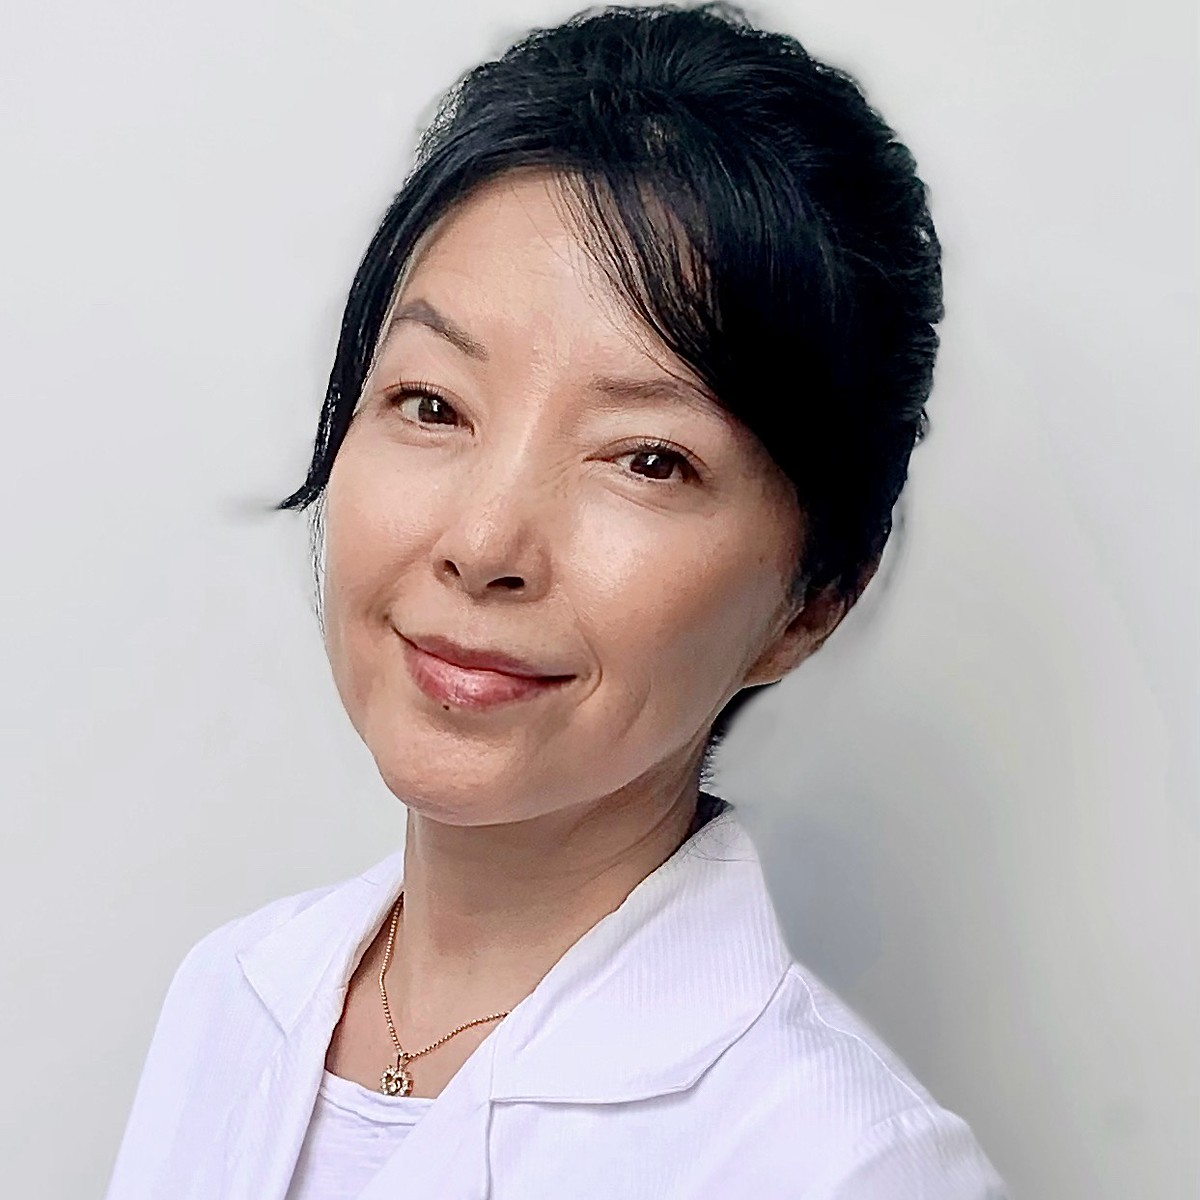
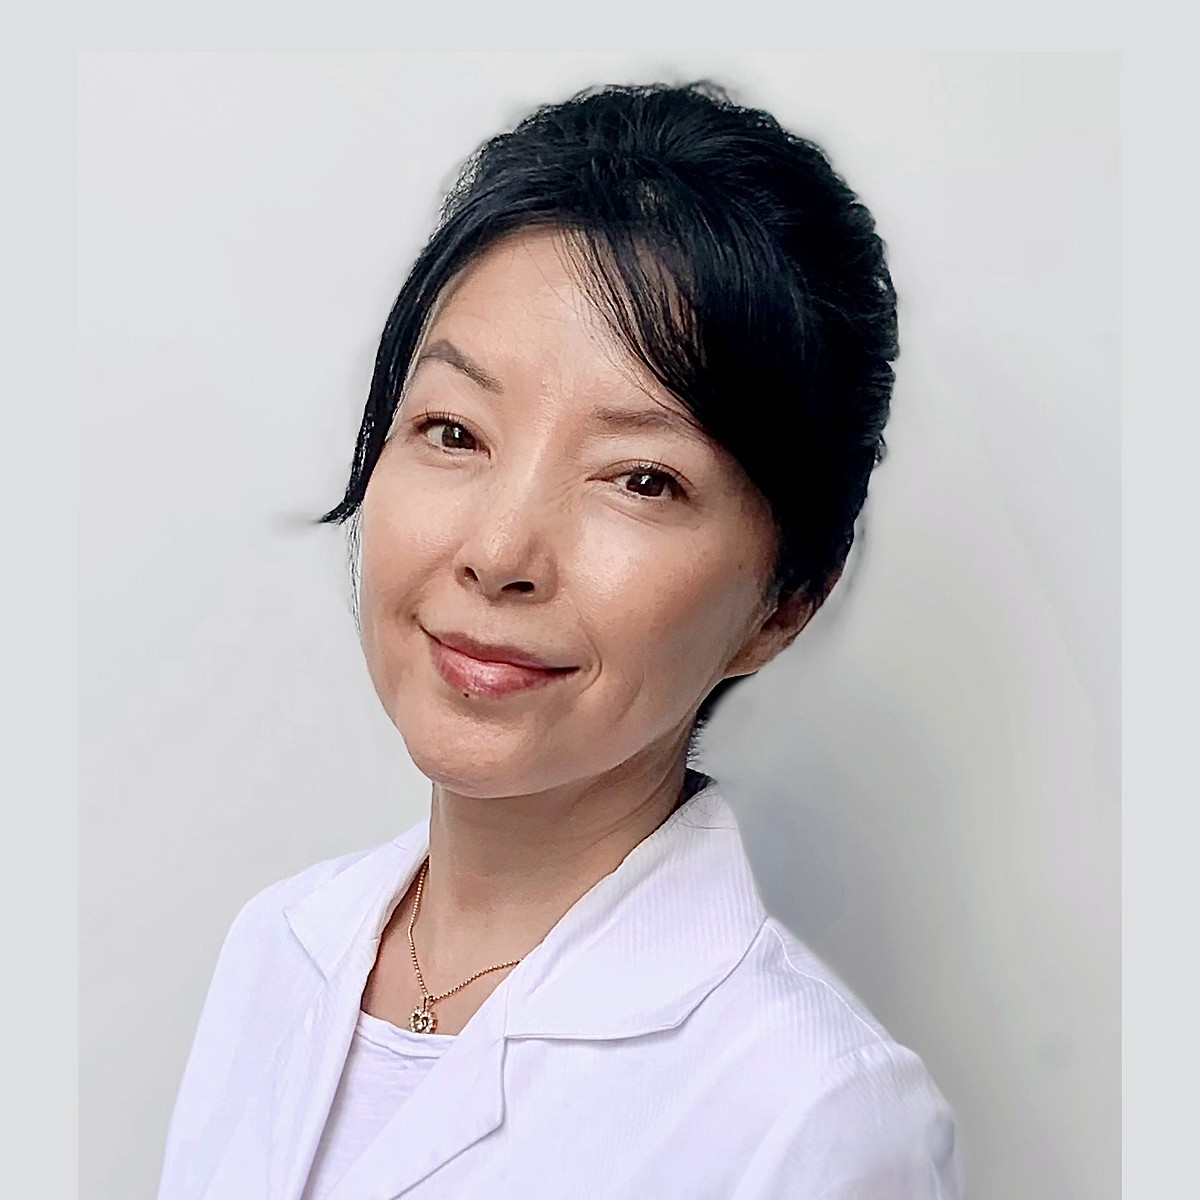
Isabella portrait v3: zoomed out (window 1.15x photo width, bg-padded) — headroom above hair, more chest, person naturally sized

diff --git a/index.html b/index.html
@@ -406,7 +406,7 @@
             <div class="team-strip__grid">
 
                 <div class="ht-card">
-                    <div class="ht-card__photo"><img src="img/isabella-portrait.jpg" alt="Isabella Lan"></div>
+                    <div class="ht-card__photo"><img src="img/isabella-portrait.jpg?v=2" alt="Isabella Lan"></div>
                     <div class="ht-card__body">
                         <h3 class="ht-card__name">Isabella Lan</h3>
                         <p class="ht-card__role">Managing Director</p>
